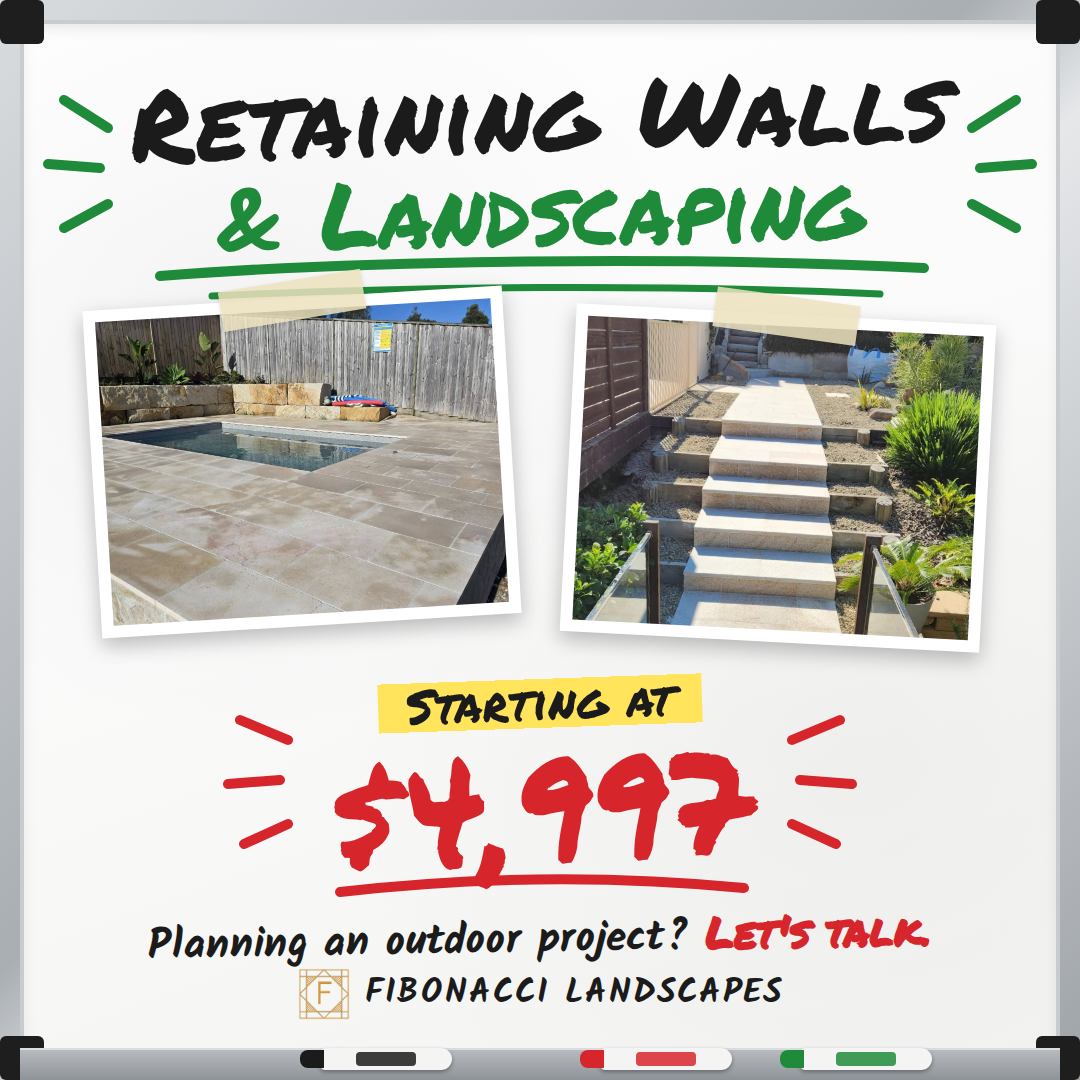
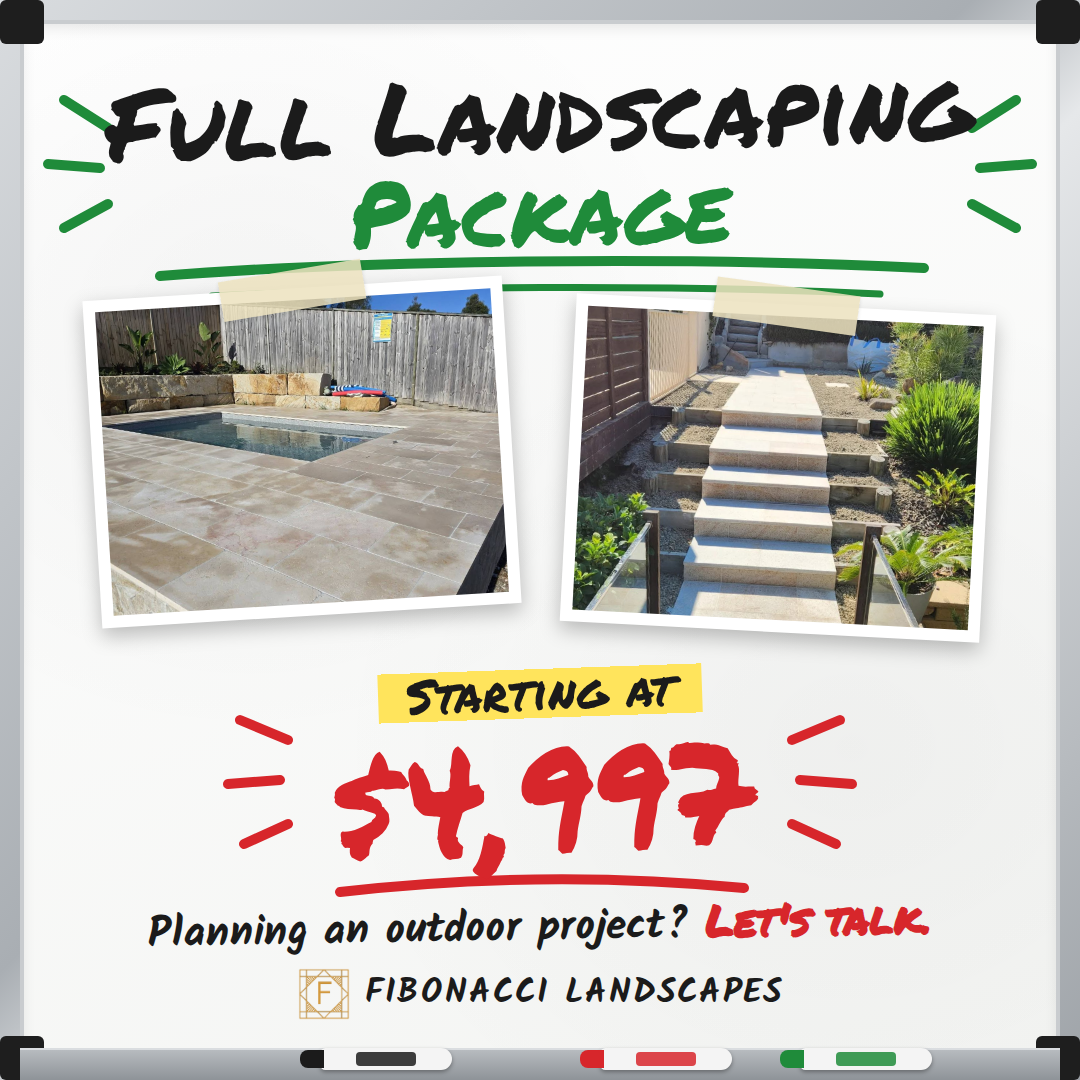
Recolour Jay's pool ad navy and gold with sandstone pool photo; retitle to Full Landscaping Package
Claude-Session: https://claude.ai/code/session_01Kp3iAUfScQwAQYUi1SKLzt

Changed region(s): [[0.0917, 0.0611, 0.9167, 0.8861], [0.4583, 0.4583, 0.4889, 0.4889], [0.4278, 0.4278, 0.4583, 0.4583]]

diff --git a/jay-fibonacci/pool-area.html b/jay-fibonacci/pool-area.html
@@ -7,7 +7,7 @@
   @font-face { font-family: 'Montserrat'; font-weight: 800; src: url(fonts/Montserrat-ExtraBold.ttf); }
   @font-face { font-family: 'Montserrat'; font-weight: 900; src: url(fonts/Montserrat-Black.ttf); }
   @font-face { font-family: 'Kaushan'; src: url(fonts/KaushanScript.ttf); }
-  :root { --blue: #1B74D1; --deep: #0D4A94; --yellow: #FFDA2E; --white: #fff; }
+  :root { --blue: #13223B; --deep: #060C16; --yellow: #E2BC70; --white: #fff; }
   * { margin: 0; padding: 0; box-sizing: border-box; }
   body { background: #fff; }
   .ad {
@@ -15,8 +15,8 @@
     width: 540px; height: 675px; color: var(--white); text-align: center;
     font-family: 'Montserrat', sans-serif;
     background:
-      repeating-conic-gradient(from 0deg at 50% 18%, rgba(255,255,255,.06) 0 6deg, transparent 6deg 12deg),
-      radial-gradient(ellipse at 50% 18%, #3A97EC 0%, var(--blue) 45%, var(--deep) 100%);
+      repeating-conic-gradient(from 0deg at 50% 18%, rgba(204,154,60,.07) 0 6deg, transparent 6deg 12deg),
+      radial-gradient(ellipse at 50% 18%, #28374F 0%, var(--blue) 45%, var(--deep) 100%);
   }
   .palm { position: absolute; width: 74px; height: 74px; fill: var(--deep); opacity: .9; }
   .head { position: relative; padding-top: 16px; }
@@ -69,6 +69,7 @@
   .brand { display: flex; align-items: center; justify-content: center; gap: 8px; z-index: 1; }
   .brand img { width: 24px; height: 24px; filter: brightness(1.15); }
   .script { font-size: 23px !important; margin-bottom: 6px; }
+  .palm { fill: #0B1524 !important; opacity: .7 !important; }
 </style>
 </head>
 <body>

diff --git a/jay-fibonacci/retaining-walls.html b/jay-fibonacci/retaining-walls.html
@@ -75,7 +75,7 @@
         <path d="M160 436 C230 428 300 428 362 434" stroke="#D7262B" stroke-width="5"/>
         <g stroke="#D7262B" stroke-width="5"><path d="M110 350 L134 360"/><path d="M104 382 L130 380"/><path d="M112 412 L134 402"/><path d="M410 350 L386 360"/><path d="M416 382 L390 380"/><path d="M408 412 L386 402"/></g>
       </svg>
-      <h1><span class="l1">Retaining Walls</span><span class="l2"><span class="amp">&amp;</span> Landscaping</span></h1>
+      <h1><span class="l1">Full Landscaping</span><span class="l2">Package</span></h1>
       <div class="photos">
         <div class="pic a"><div style="background-image:url(images/service-retaining-wall-2.jpg); background-position: 30% 45%"></div><span class="tape" style="transform:rotate(-6deg)"></span></div>
         <div class="pic b"><div style="background-image:url(images/process-1-design.jpg); background-position: center 40%"></div><span class="tape" style="transform:rotate(5deg)"></span></div>
